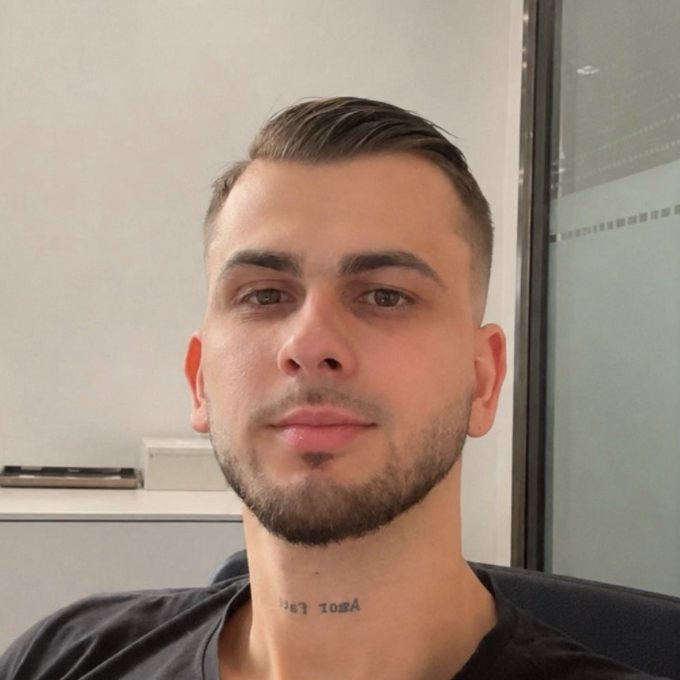
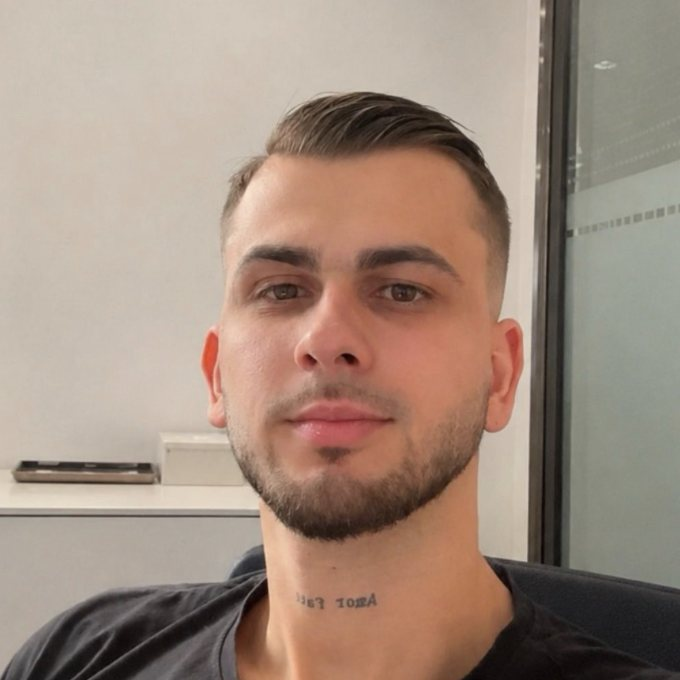
Programa: foto en círculo algo más grande y centrada en el móvil

diff --git a/public/programa/index.html b/public/programa/index.html
@@ -589,11 +589,12 @@ html[data-anim] [data-aparece] { transform: translateY(40px) scale(.97); }
 html[data-anim] [data-aparece][data-visto] { transform: none; }
 
 @media (max-width: 860px) {
-  .pq { grid-template-columns: minmax(0, 1fr); grid-template-areas: "foto" "cab" "texto"; row-gap: 16px; align-items: start; }
-  .pq-foto { width: 100%; max-width: 420px; aspect-ratio: 1; border-radius: 26px; margin-bottom: 8px; }
+  .pq { grid-template-columns: 108px minmax(0, 1fr); grid-template-areas: "foto cab" "texto texto"; column-gap: 18px; align-items: center; }
+  .pq-foto { aspect-ratio: 1; border-radius: 50%; }
   .pq-foto picture { display: contents; }
-  .pq-cab h2 { font-size: 34px; }
-  .pq-firma { margin-top: 6px; font-size: 15px; }
+  .pq-foto img { object-position: 50% 50%; }
+  .pq-cab h2 { font-size: 32px; }
+  .pq-firma { margin-top: 4px; font-size: 14px; }
   .filas { grid-template-columns: 1fr; }
   .extras2 { grid-template-columns: repeat(2, minmax(0, 1fr)); }
   html[data-anim] [data-aparece] { filter: none; transform: translateY(36px) scale(.96); }
